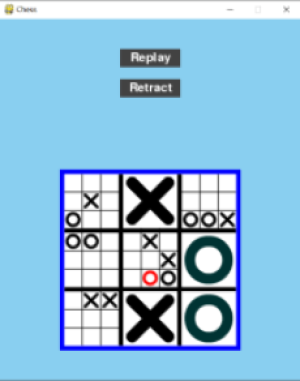
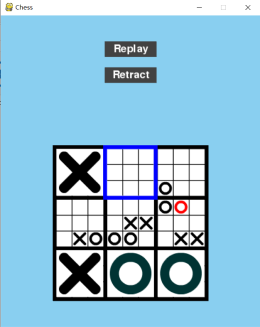
效果图及READM.md修改

Changed region(s): [[0.1846, 0.4281, 0.8308, 0.948], [0.0, 0.0, 1.0, 1.0], [0.4, 0.1223, 0.6154, 0.2752]]

diff --git a/README.md b/README.md
@@ -40,19 +40,19 @@ ___
 4.用红色标出上一步下的棋。
 
 5.悔棋和重玩功能。
+
+6.能检测和绘制大棋
+
+7.判断胜负
 ___
 #### 未来计划：
 
-1.能检测和绘制大棋。
+1.能让玩家自由设置背景颜色。
 
-2.判定胜负。
+2.添加开始游戏和设置界面。
 
-3.能让玩家自由设置背景颜色。
+3.实现网络对战。
 
-4.添加开始游戏和设置界面。
+4.实现人机对战。
 
-5.实现网络对战。
-
-6.实现人机对战。
-
-7.重新编辑README.md。
+5.重新编辑README.md。
